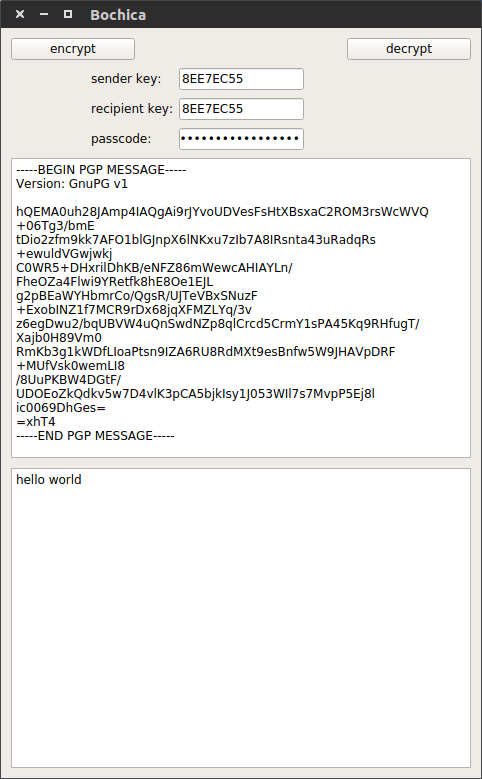
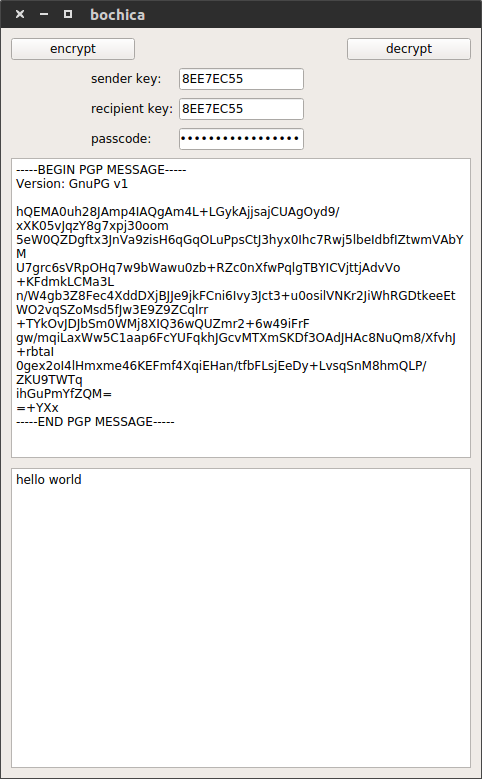
add usage documentation, update screenshots

Changed region(s): [[0.0311, 0.2465, 0.9647, 0.5854], [0.1867, 0.0, 0.3112, 0.0308]]

diff --git a/README.md b/README.md
@@ -10,6 +10,12 @@ This program works with Python 3 and PyQt5.
 sudo pip install bochica
 ```
 
+# usage
+
+```Bash
+bochica.py
+```
+
 # screenshots
 
 |**encrypt**             |**decrypt**             |
